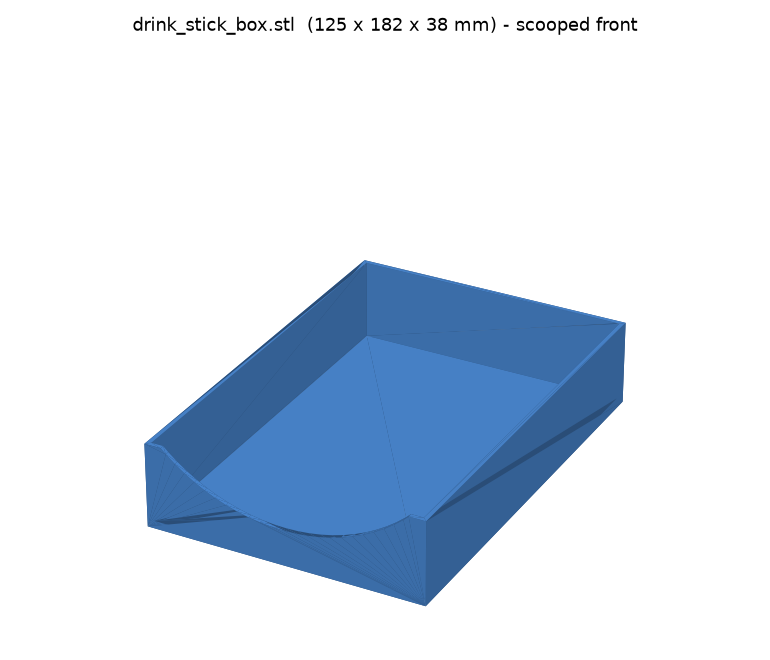
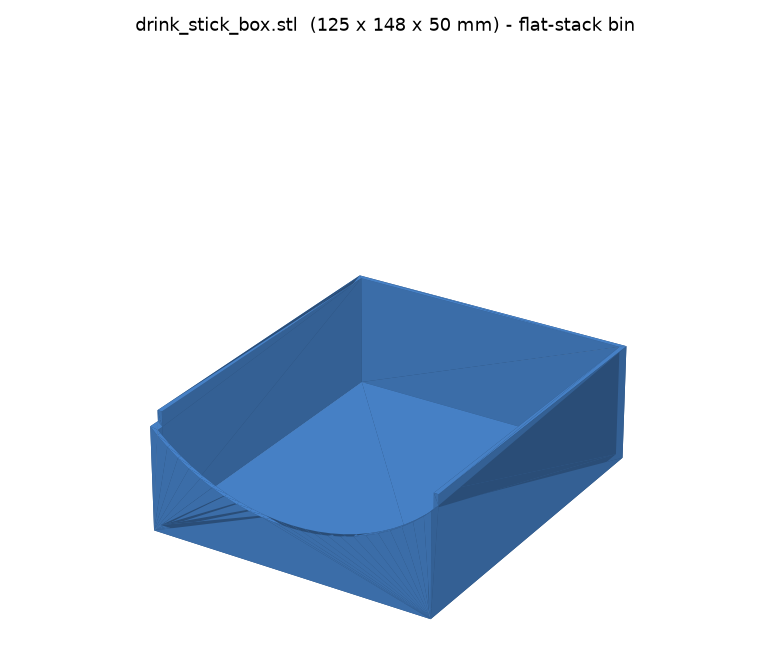
Switch drawer organizer to flat-stack bins
Packets lie flat and stack instead of standing upright. 4 open bins
across the front of the drawer (~6 in reach), one flavor each, ~36
packets per bin (~144 total). Curved front scoop for access. Rest of
the drawer left free. Generator reworked with flat-stack capacity math
and front-anchored placement; ROWS=2 fills the whole drawer if wanted.

Claude-Session: https://claude.ai/code/session_01N378vC5N84T5hZN3z5JBkC

diff --git a/src/generate_drawer_organizer.py b/src/generate_drawer_organizer.py
@@ -38,33 +38,38 @@ DRAWER_L = 20.0 * IN     # 508.0 mm  (the "20 inch" run)
 DRAWER_W = 14.5 * IN     # 368.3 mm  (the "14.5 inch" run)
 DRAWER_D = 2.4 * IN      # ~61   mm  (just under 2.5 in deep)
 
-# --- Stick packet (measured, with a little slack) ---
-STICK_LEN = 4.25 * IN    # ~108 mm  laid horizontally in the box
-STICK_TALL = 1.25 * IN   # ~32  mm  how tall it stands up
-STICK_THICK = 0.40 * IN  # ~10  mm  used only to estimate capacity
+# --- Packet (measured) ---
+# The packets lie FLAT and stack on top of each other.
+PKT_LEN = 4.25 * IN      # ~108 mm  long side, lies along the box width
+PKT_WIDE = 1.25 * IN     # ~32  mm  short side, lies along the box depth
+PKT_THICK = 0.20 * IN    # ~5   mm  thickness flat -> sets how many stack up
 
-# --- Grid: how many boxes tile the drawer ---
-COLS = 4                 # boxes along the 20 in run
-ROWS = 2                 # boxes along the 14.5 in run
+# --- Grid: 4 bins across the FRONT of the drawer (one flavor each) ---
+COLS = 4                 # bins across the 20 in run
+ROWS = 1                 # rows of bins from the front (1 = front strip only)
+BOX_DEPTH = 150.0        # how far each bin reaches back (~6 in); rest of the
+                         # drawer stays free for your other stuff
 DRAWER_GAP = 2.0         # total slack per box per axis (drop-in clearance)
 
 # --- Box build ---
-BOX_H = 38.0             # box height (drawer is ~61 mm, so lots of clearance)
+BOX_H = 50.0             # ~2 in tall (drawer is ~61 mm, leaves room to grab)
 WALL = 2.0              # wall thickness
 FLOOR = 2.0             # floor thickness
 
-# --- Front scoop (the curved dip you grab sticks through) ---
-SCOOP_DIP = 22.0         # how far the front wall is lowered at its center
-SCOOP_R = 80.0           # arc radius (bigger = shallower, wider U)
+# --- Front scoop (the curved dip you reach in / slide the top packet out) ---
+SCOOP_DIP = 30.0         # how far the front wall is lowered at its center
+SCOOP_R = 90.0           # arc radius (bigger = shallower, wider U)
 
 OUT_DIR = os.path.join(os.path.dirname(__file__), "..", "models", "drawer_organizer")
 RENDER_DIR = os.path.join(os.path.dirname(__file__), "..", "renders")
 
 # --------------------------------------------------------------------------- #
-# Derived box footprint (fills the drawer exactly, minus drop-in clearance)
+# Derived box footprint
+#   - width (X): tiles the 20 in run so COLS bins sit side by side
+#   - depth (Y): fixed reach into the drawer, front-anchored
 # --------------------------------------------------------------------------- #
 BOX_L = DRAWER_L / COLS - DRAWER_GAP   # X, along the 20 in run
-BOX_W = DRAWER_W / ROWS - DRAWER_GAP   # Y, along the 14.5 in run
+BOX_W = BOX_DEPTH - DRAWER_GAP         # Y, front-to-back reach
 
 
 def _engine_diff(a, b):
@@ -112,19 +117,22 @@ def main():
     box_path = os.path.join(OUT_DIR, "drink_stick_box.stl")
     box_mesh.export(box_path)
 
-    # Capacity estimate
+    # Capacity estimate: packets laid FLAT, stacked up
     inner_len = BOX_L - 2 * WALL
-    inner_file = BOX_W - 2 * WALL
-    per_box = int(inner_file // STICK_THICK)
+    inner_dep = BOX_W - 2 * WALL
+    inner_ht = BOX_H - FLOOR
+    per_layer = max(1, int(inner_len // PKT_LEN)) * max(1, int(inner_dep // PKT_WIDE))
+    layers = max(1, int(inner_ht // PKT_THICK))
+    per_box = per_layer * layers
     total = per_box * COLS * ROWS
 
-    # Whole-drawer preview (not for printing -- just to look at the fit)
+    # Placement preview (front-anchored bins; rest of drawer left free)
     combo = []
     for c in range(COLS):
         for r in range(ROWS):
             m = box_mesh.copy()
             x = -DRAWER_L / 2.0 + (c + 0.5) * (DRAWER_L / COLS)
-            y = -DRAWER_W / 2.0 + (r + 0.5) * (DRAWER_W / ROWS)
+            y = -DRAWER_W / 2.0 + DRAWER_GAP / 2.0 + BOX_W / 2.0 + r * BOX_DEPTH
             m.apply_translation([x, y, 0])
             combo.append(m)
     preview = trimesh.util.concatenate(combo)
@@ -141,19 +149,21 @@ def main():
         os.makedirs(RENDER_DIR, exist_ok=True)
         fig, ax = plt.subplots(figsize=(8, 8 * DRAWER_W / DRAWER_L))
         ax.add_patch(Rectangle((0, 0), DRAWER_L, DRAWER_W, fill=False, lw=3, ec="#444"))
+        ax.text(DRAWER_L / 2, DRAWER_W * 0.72, "rest of drawer left free\n(your other stuff)",
+                ha="center", va="center", fontsize=11, color="#888", style="italic")
         for c in range(COLS):
             for r in range(ROWS):
                 x = c * (DRAWER_L / COLS) + DRAWER_GAP / 2
-                y = r * (DRAWER_W / ROWS) + DRAWER_GAP / 2
+                y = DRAWER_GAP / 2 + r * BOX_DEPTH
                 ax.add_patch(Rectangle((x, y), BOX_L, BOX_W, fc="#cfe8ff",
                                        ec="#2b6cb0", lw=2))
                 ax.text(x + BOX_L / 2, y + BOX_W / 2,
-                        f"~{per_box} sticks", ha="center", va="center", fontsize=11)
+                        f"~{per_box}\npackets", ha="center", va="center", fontsize=10)
         ax.set_xlim(-10, DRAWER_L + 10)
         ax.set_ylim(-10, DRAWER_W + 10)
         ax.set_aspect("equal")
-        ax.set_title(f'Drawer: 20 x 14.5 in  |  {COLS*ROWS} boxes '
-                     f'({COLS} x {ROWS})  |  ~{total} sticks total')
+        ax.set_title(f'Drawer: 20 x 14.5 in  |  {COLS*ROWS} bins across the front '
+                     f'|  packets lie flat, ~{total} total')
         ax.set_xlabel("20 in (508 mm)")
         ax.set_ylabel("14.5 in (368 mm)")
         fig.tight_layout()
@@ -165,23 +175,22 @@ def main():
         print(f"(skipped PNG render: {e})")
 
     print("=" * 62)
-    print("Drawer organizer generated")
+    print("Drawer organizer generated  (FLAT-STACK bins)")
     print("=" * 62)
     print(f"Drawer inside : {DRAWER_L:.0f} x {DRAWER_W:.0f} x {DRAWER_D:.0f} mm "
           f"(20 x 14.5 x 2.4 in)")
-    print(f"Grid          : {COLS} across x {ROWS} deep = {COLS*ROWS} boxes "
-          f"(all identical)")
-    print(f"Box outside   : {BOX_L:.1f} x {BOX_W:.1f} x {BOX_H:.1f} mm")
-    print(f"Box inside    : {inner_len:.1f} x {inner_file:.1f} x "
-          f"{BOX_H-FLOOR:.1f} mm")
-    print(f"Stick fit     : {STICK_LEN:.0f} mm long fits the {inner_len:.0f} mm "
-          f"inside length")
-    print(f"Capacity      : ~{per_box} sticks/box  ->  ~{total} sticks total")
-    print(f"Front scoop   : dips to {BOX_H-SCOOP_DIP:.0f} mm at center "
-          f"(sticks stand {STICK_TALL:.0f} mm)")
+    print(f"Layout        : {COLS} bins across the front "
+          f"(reach {BOX_DEPTH/IN:.1f} in back; rest left free)")
+    print(f"Box outside   : {BOX_L:.1f} x {BOX_W:.1f} x {BOX_H:.1f} mm "
+          f"({BOX_L/IN:.1f} x {BOX_W/IN:.1f} x {BOX_H/IN:.1f} in)")
+    print(f"Box inside    : {inner_len:.1f} x {inner_dep:.1f} x {inner_ht:.1f} mm")
+    print(f"Packet flat   : {PKT_LEN:.0f} x {PKT_WIDE:.0f} mm -> "
+          f"{per_layer}/layer x {layers} layers")
+    print(f"Capacity      : ~{per_box} packets/bin  ->  ~{total} total")
+    print(f"Front scoop   : dips to {BOX_H-SCOOP_DIP:.0f} mm at center")
     print("-" * 62)
     print(f"PRINT: {box_path}")
-    print(f"       ...repeat {COLS*ROWS} times (fits ~4 per H2D plate).")
+    print(f"       ...repeat {COLS*ROWS} times (fits ~2 per H2D plate).")
     print(f"PREVIEW (do not print): {preview_path}")
     if rendered:
         print(f"MAP: renders/drawer_layout.png")

diff --git a/models/drawer_organizer/README.md b/models/drawer_organizer/README.md
@@ -1,51 +1,47 @@
-# Drink-stick drawer organizer
+# Drink-packet drawer organizer (flat-stack bins)
 
-Open-top boxes that turn a **20 × 14.5 × ~2.4 in** drawer into an organized
-file of drink-mix **stick packets** (ICEE, Liquid Death, LMNT, etc. —
-~4.25 × 1.25 in). The sticks stand up and file front-to-back like index cards,
-and a curved **scoop** in the front wall lets you see the flavors and slide one
-out.
+Open-top bins for a **20 × 14.5 × ~2.4 in** drawer. Drink-mix packets
+(ICEE, Holloway, Laura Beverlin, etc.) **lie flat and stack up** inside — one
+flavor per bin. A curved **scoop** in the front lets you reach in and slide the
+top packet out.
 
-No baseplate, no Gridfinity — **just boxes**. Sized to fill the drawer, so they
-can't slide around.
+No baseplate, no Gridfinity — **just bins**.
 
 ![box](../../renders/drink_stick_box.png)
 ![layout](../../renders/drawer_layout.png)
+
+## Layout
+
+**4 bins across the front** of the drawer, each reaching ~6 in back. The rest of
+the drawer stays free for your other stuff. Each bin holds **~36 packets laid
+flat** (they stack ~9 high in the 2 in depth) → **~144 total**.
 
 ## What to print
 
 | File | What | Print how many |
 |------|------|----------------|
-| `drink_stick_box.stl` | One box (125 × 182 × 38 mm), scooped front | **8×** (they're all identical) |
-| `drawer_layout_preview.stl` | All 8 arranged in the drawer | **don't print** — just to eyeball the fit |
-
-**Layout:** 8 identical boxes, **4 across × 2 deep**, fills the 20 × 14.5 in
-floor with a few mm of drop-in slack. Each box holds **~17 sticks** of one
-flavor → **~136 sticks** total. Put the **scooped side facing you**.
+| `drink_stick_box.stl` | One bin (125 × 148 × 50 mm), scooped front | **4×** (all identical) |
+| `drawer_layout_preview.stl` | The 4 bins placed in the drawer | **don't print** — just to eyeball it |
 
 ## Print settings (Bambu H2D, one color)
 
 | Setting | Value |
 |---|---|
 | Material | PLA (or PETG) |
-| Layer height | 0.2–0.28 mm (these are just bins — go fast) |
+| Layer height | 0.2–0.28 mm |
 | Walls | 3 |
 | Infill | 10–15% |
-| Supports | **None** (scoop is a gentle arc, prints fine) |
+| Supports | **None** (the scoop is a gentle arc) |
 | Orientation | As-is, open side up |
-| Per plate | ~4 boxes fit an H2D plate → 2 plates for all 8 |
-
-Each box is ~86 cm³ / roughly 100–110 g of filament and a couple hours.
+| Per plate | ~2 bins per H2D plate → 2 plates for all 4 |
 
 ## Want it different? It's parametric
 
 Edit the CONFIG block in `src/generate_drawer_organizer.py` and re-run
-`python3 src/generate_drawer_organizer.py`. Common tweaks:
+`python3 src/generate_drawer_organizer.py`:
 
-- **More, smaller compartments:** set `ROWS = 3` → 12 boxes (~11 sticks each).
-- **Fewer, bigger:** set `COLS = 3` → 6 boxes.
-- **Taller/shorter boxes:** `BOX_H`.
-- **Deeper/shallower scoop:** `SCOOP_DIP` (and `SCOOP_R` for its width).
-- **Different drawer or packet:** `DRAWER_L/W/D`, `STICK_LEN/TALL/THICK`.
-
-The box footprint is derived so `COLS × ROWS` boxes always tile the drawer.
+- **Fill the whole drawer** (front *and* back): set `ROWS = 2` → 8 bins.
+- **More / fewer bins across:** `COLS`.
+- **Deeper or shallower reach:** `BOX_DEPTH`.
+- **Taller / shorter bins:** `BOX_H`.
+- **Different packet or drawer:** `PKT_*`, `DRAWER_*`.
